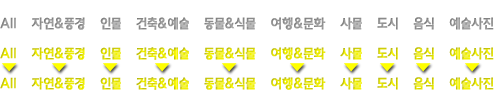
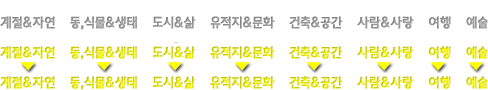
카테고리 변경

diff --git a/public/css/common.css b/public/css/common.css
@@ -78,52 +78,43 @@ hr { width:100%; border:none; margin:0; padding:0; height:0; border-top:2px soli
 .category li.c1 {background-position:0 0;}
 .category li.c1:hover {background-position:0 -30px;}
 .category li.c1.on, .category li.c1:active {background-position:0 -60px;}
-.category li.c1 a {width:16px;}
+.category li.c1 a {width:55px;}
 
-.category li.c2 {background-position:-31px 0;}
-.category li.c2:hover {background-position:-31px -30px;}
-.category li.c2.on, .category li.c2:active {background-position:-31px -60px;}
-.category li.c2 a {width:54px;}
+.category li.c2 {background-position:-71px 0;}
+.category li.c2:hover {background-position:-71px -30px;}
+.category li.c2.on, .category li.c2:active {background-position:-71px -60px;}
+.category li.c2 a {width:66px;}
 
-.category li.c3 {background-position:-100px 0;}
-.category li.c3:hover {background-position:-100px -30px;}
-.category li.c3.on, .category li.c3:active {background-position:-100px -60px;}
-.category li.c3 a {width:21px;}
+.category li.c3 {background-position:-153px 0;}
+.category li.c3:hover {background-position:-153px -30px;}
+.category li.c3.on, .category li.c3:active {background-position:-153px -60px;}
+.category li.c3 a {width:42px;}
 
-.category li.c4 {background-position:-136px 0;}
-.category li.c4:hover {background-position:-136px -30px;}
-.category li.c4.on, .category li.c4:active {background-position:-136px -60px;}
-.category li.c4 a {width:53px;}
+.category li.c4 {background-position:-211px 0;}
+.category li.c4:hover {background-position:-211px -30px;}
+.category li.c4.on, .category li.c4:active {background-position:-211px -60px;}
+.category li.c4 a {width:64px;}
 
-.category li.c5 {background-position:-204px 0;}
-.category li.c5:hover {background-position:-204px -30px;}
-.category li.c5.on, .category li.c5:active {background-position:-204px -60px;}
-.category li.c5 a {width:51px;}
+.category li.c5 {background-position:-291px 0;}
+.category li.c5:hover {background-position:-291px -30px;}
+.category li.c5.on, .category li.c5:active {background-position:-291px -60px;}
+.category li.c5 a {width:52px;}
 
-.category li.c6 {background-position:-270px 0;}
-.category li.c6:hover {background-position:-270px -30px;}
-.category li.c6.on, .category li.c6:active {background-position:-270px -60px;}
-.category li.c6 a {width:55px;}
+.category li.c6 {background-position:-358px 0;}
+.category li.c6:hover {background-position:-358px -30px;}
+.category li.c6.on, .category li.c6:active {background-position:-358px -60px;}
+.category li.c6 a {width:56px;}
 
-.category li.c7 {margin-right:14px;background-position:-340px 0;}
-.category li.c7:hover {background-position:-340px -30px;}
-.category li.c7.on, .category li.c7:active {background-position:-340px -60px;}
+.category li.c7 {background-position:-429px 0;}
+.category li.c7:hover {background-position:-429px -30px;}
+.category li.c7.on, .category li.c7:active {background-position:-429px -60px;}
 .category li.c7 a {width:22px;}
 
-.category li.c8 {margin-right:14px;background-position:-376px 0;}
-.category li.c8:hover {background-position:-376px -30px;}
-.category li.c8.on, .category li.c8:active {background-position:-376px -60px;}
+.category li.c8 {background-position:-466px 0;}
+.category li.c8:hover {background-position:-466px -30px;}
+.category li.c8.on, .category li.c8:active {background-position:-466px -60px;}
 .category li.c8 a {width:22px;}
 
-.category li.c9 {margin-right:14px;background-position:-412px 0;}
-.category li.c9:hover {background-position:-412px -30px;}
-.category li.c9.on, .category li.c9:active {background-position:-412px -60px;}
-.category li.c9 a {width:22px;}
-
-.category li.c10 {background-position:-448px 0;}
-.category li.c10:hover {background-position:-448px -30px;}
-.category li.c10.on, .category li.c10:active {background-position:-448px -60px;}
-.category li.c10 a {width:45px;}
 
 .no-result {display:none;clear:both; text-align:center;font-size:14px; padding:95px;}
 .photo-list {clear:both; display:block; position:relative;}

diff --git a/public/markup/main.html b/public/markup/main.html
@@ -29,16 +29,14 @@
 				<img src="../images/text_main.png" width="505" height="189" alt="함께 나누는 사진 베스트 포토를 추천해주세요! 투표 기간 : 2013. 10. 25 ~ 2013. 11. 10" />
 			</div>
 			<ul class="category">
-				<li class="c1 on"><a href="">All</a></li>
-				<li class="c2"><a href="">자연&amp;풍경</a></li>
-				<li class="c3"><a href="">인물</a></li>
-				<li class="c4"><a href="">건축&amp;예술</a></li>
-				<li class="c5"><a href="">동물&amp;식물</a></li>
-				<li class="c6"><a href="">여행&amp;문화</a></li>
-				<li class="c7"><a href="">사물</a></li>
-				<li class="c8"><a href="">도시</a></li>
-				<li class="c9"><a href="">음식</a></li>
-				<li class="c10"><a href="">예술사진</a></li>
+				<li class="c1 on"><a href="">계절&amp;자연</a></li>
+				<li class="c2"><a href="">동,식물&amp;생태</a></li>
+				<li class="c3"><a href="">도시&amp;삶</a></li>
+				<li class="c4"><a href="">유적지&amp;문화</a></li>
+				<li class="c5"><a href="">건축&amp;공간</a></li>
+				<li class="c6"><a href="">사람&amp;사랑</a></li>
+				<li class="c7"><a href="">여행</a></li>
+				<li class="c8"><a href="">예술</a></li>
 			</ul>
 			<a class="btn-upload" href="">사진 올리기</a>
 			<form>

diff --git a/public/markup/detail.html b/public/markup/detail.html
@@ -26,16 +26,14 @@
 </div>
 <div id="content" class="detail">
 	<ul class="category">
-		<li class="c1 on"><a href="">All</a></li>
-		<li class="c2"><a href="">자연&amp;풍경</a></li>
-		<li class="c3"><a href="">인물</a></li>
-		<li class="c4"><a href="">건축&amp;예술</a></li>
-		<li class="c5"><a href="">동물&amp;식물</a></li>
-		<li class="c6"><a href="">여행&amp;문화</a></li>
-		<li class="c7"><a href="">사물</a></li>
-		<li class="c8"><a href="">도시</a></li>
-		<li class="c9"><a href="">음식</a></li>
-		<li class="c10"><a href="">예술사진</a></li>
+		<li class="c1 on"><a href="">계절&amp;자연</a></li>
+		<li class="c2"><a href="">동,식물&amp;생태</a></li>
+		<li class="c3"><a href="">도시&amp;삶</a></li>
+		<li class="c4"><a href="">유적지&amp;문화</a></li>
+		<li class="c5"><a href="">건축&amp;공간</a></li>
+		<li class="c6"><a href="">사람&amp;사랑</a></li>
+		<li class="c7"><a href="">여행</a></li>
+		<li class="c8"><a href="">예술</a></li>
 	</ul>
 
 	<div class="content">

diff --git a/public/css/detail.css b/public/css/detail.css
@@ -28,7 +28,7 @@
 .content .actions li .btn-share {background-position:-218px 0; }
 .content .actions li .btn-download:hover {background-position:0 -25px;}
 .content .actions li .btn-info:hover {background-position:-72px -25px;}
-.content .actions li .btn-recommendx:hover, .content .actions li .btn-recommend.on {background-position:-145px -25px;}
+.content .actions li .btn-recommend:hover, .content .actions li .btn-recommend.on {background-position:-145px -25px;}
 .content .actions li .btn-share:hover {background-position:-218px -25px; }
 .content .photo-info {display:none; position:absolute; bottom:33px; left:-98px; background: url(../images/bg_photo_info.png) no-repeat; width:274px; height:235px;}
 .content .photo-info table {margin:55px 0 0 23px;}

diff --git a/public/js/main.js b/public/js/main.js
@@ -13,7 +13,7 @@ var count = 20;
 var loading = false;
 var load = function(start, count) {
 	loading = true;
-	var cate = PARAM['cate'] || '';
+	var cate = PARAM['cate'] || '1';
 	var sort = PARAM['sort'] || 'd';
 	var keyword = PARAM['keyword'] || '';
 

diff --git a/public/index.php b/public/index.php
@@ -14,16 +14,14 @@
 				<img src="../images/text_main.png" width="505" height="189" alt="함께 나누는 사진 베스트 포토를 추천해주세요! 투표 기간 : 2013. 10. 25 ~ 2013. 11. 10" />
 			</div>
 			<ul class="category">
-				<li class="c1 <?if (!$cate) echo 'on';?>"><a href="/">All</a></li>
-				<li class="c2 <?if ($cate == '1') echo 'on';?>"><a href="?cate=1">자연&amp;풍경</a></li>
-				<li class="c3 <?if ($cate == '2') echo 'on';?>"><a href="?cate=2">인물</a></li>
-				<li class="c4 <?if ($cate == '3') echo 'on';?>"><a href="?cate=3">건축&amp;예술</a></li>
-				<li class="c5 <?if ($cate == '4') echo 'on';?>"><a href="?cate=4">동물&amp;식물</a></li>
-				<li class="c6 <?if ($cate == '5') echo 'on';?>"><a href="?cate=5">여행&amp;문화</a></li>
-				<li class="c7 <?if ($cate == '6') echo 'on';?>"><a href="?cate=6">사물</a></li>
-				<li class="c8 <?if ($cate == '7') echo 'on';?>"><a href="?cate=7">도시</a></li>
-				<li class="c9 <?if ($cate == '8') echo 'on';?>"><a href="?cate=8">음식</a></li>
-				<li class="c10 <?if ($cate == '9') echo 'on';?>"><a href="?cate=9">예술사진</a></li>
+				<li class="c1 <?if (!$cate || $cate == '1') echo 'on';?>"><a href="?cate=1">계절&amp;자연</a></li>
+				<li class="c2 <?if ($cate == '2') echo 'on';?>"><a href="?cate=2">동,식물&amp;생태</a></li>
+				<li class="c3 <?if ($cate == '3') echo 'on';?>"><a href="?cate=3">도시&amp;삶</a></li>
+				<li class="c4 <?if ($cate == '4') echo 'on';?>"><a href="?cate=4">유적지&amp;문화</a></li>
+				<li class="c5 <?if ($cate == '5') echo 'on';?>"><a href="?cate=5">건축&amp;공간</a></li>
+				<li class="c6 <?if ($cate == '6') echo 'on';?>"><a href="?cate=6">사람&amp;사랑</a></li>
+				<li class="c7 <?if ($cate == '7') echo 'on';?>"><a href="?cate=7">여행</a></li>
+				<li class="c8 <?if ($cate == '8') echo 'on';?>"><a href="?cate=8">예술</a></li>
 			</ul>
 			<a class="btn-upload" href="/my/upload.php">사진 올리기</a>
 			<form name="filter">

diff --git a/public/detail.php b/public/detail.php
@@ -90,16 +90,14 @@
 
 <div id="content" class="detail">
 	<ul class="category">
-		<li class="c1 <?if (!$cate) echo 'on';?>"><a href="/">All</a></li>
-		<li class="c2 <?if ($cate == '1') echo 'on';?>"><a href="/?cate=1">자연&amp;풍경</a></li>
-		<li class="c3 <?if ($cate == '2') echo 'on';?>"><a href="/?cate=2">인물</a></li>
-		<li class="c4 <?if ($cate == '3') echo 'on';?>"><a href="/?cate=3">건축&amp;예술</a></li>
-		<li class="c5 <?if ($cate == '4') echo 'on';?>"><a href="/?cate=4">동물&amp;식물</a></li>
-		<li class="c6 <?if ($cate == '5') echo 'on';?>"><a href="/?cate=5">여행&amp;문화</a></li>
-		<li class="c7 <?if ($cate == '6') echo 'on';?>"><a href="/?cate=6">사물</a></li>
-		<li class="c8 <?if ($cate == '7') echo 'on';?>"><a href="/?cate=7">도시</a></li>
-		<li class="c9 <?if ($cate == '8') echo 'on';?>"><a href="/?cate=8">음식</a></li>
-		<li class="c10 <?if ($cate == '9') echo 'on';?>"><a href="/?cate=9">예술사진</a></li>
+		<li class="c1 <?if (!$cate || $cate == '1') echo 'on';?>"><a href="?cate=1">계절&amp;자연</a></li>
+		<li class="c2 <?if ($cate == '2') echo 'on';?>"><a href="?cate=2">동,식물&amp;생태</a></li>
+		<li class="c3 <?if ($cate == '3') echo 'on';?>"><a href="?cate=3">도시&amp;삶</a></li>
+		<li class="c4 <?if ($cate == '4') echo 'on';?>"><a href="?cate=4">유적지&amp;문화</a></li>
+		<li class="c5 <?if ($cate == '5') echo 'on';?>"><a href="?cate=5">건축&amp;공간</a></li>
+		<li class="c6 <?if ($cate == '6') echo 'on';?>"><a href="?cate=6">사람&amp;사랑</a></li>
+		<li class="c7 <?if ($cate == '7') echo 'on';?>"><a href="?cate=7">여행</a></li>
+		<li class="c8 <?if ($cate == '8') echo 'on';?>"><a href="?cate=8">예술</a></li>
 	</ul>
 
 	<div class="content">
